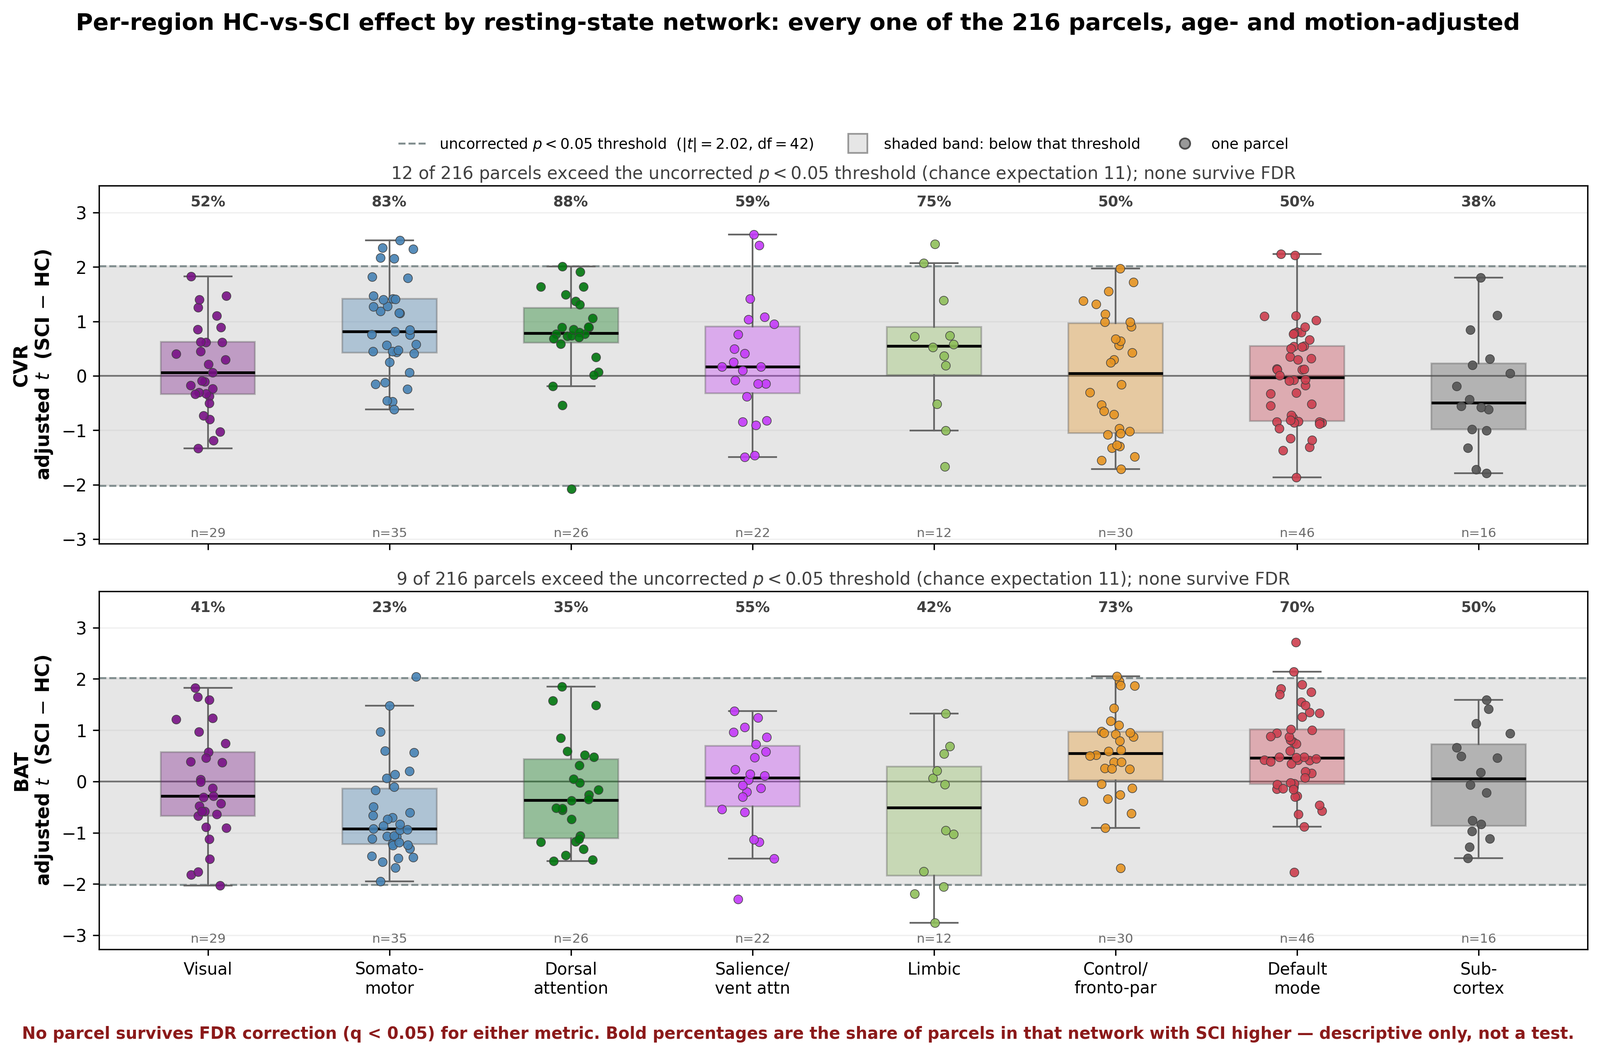
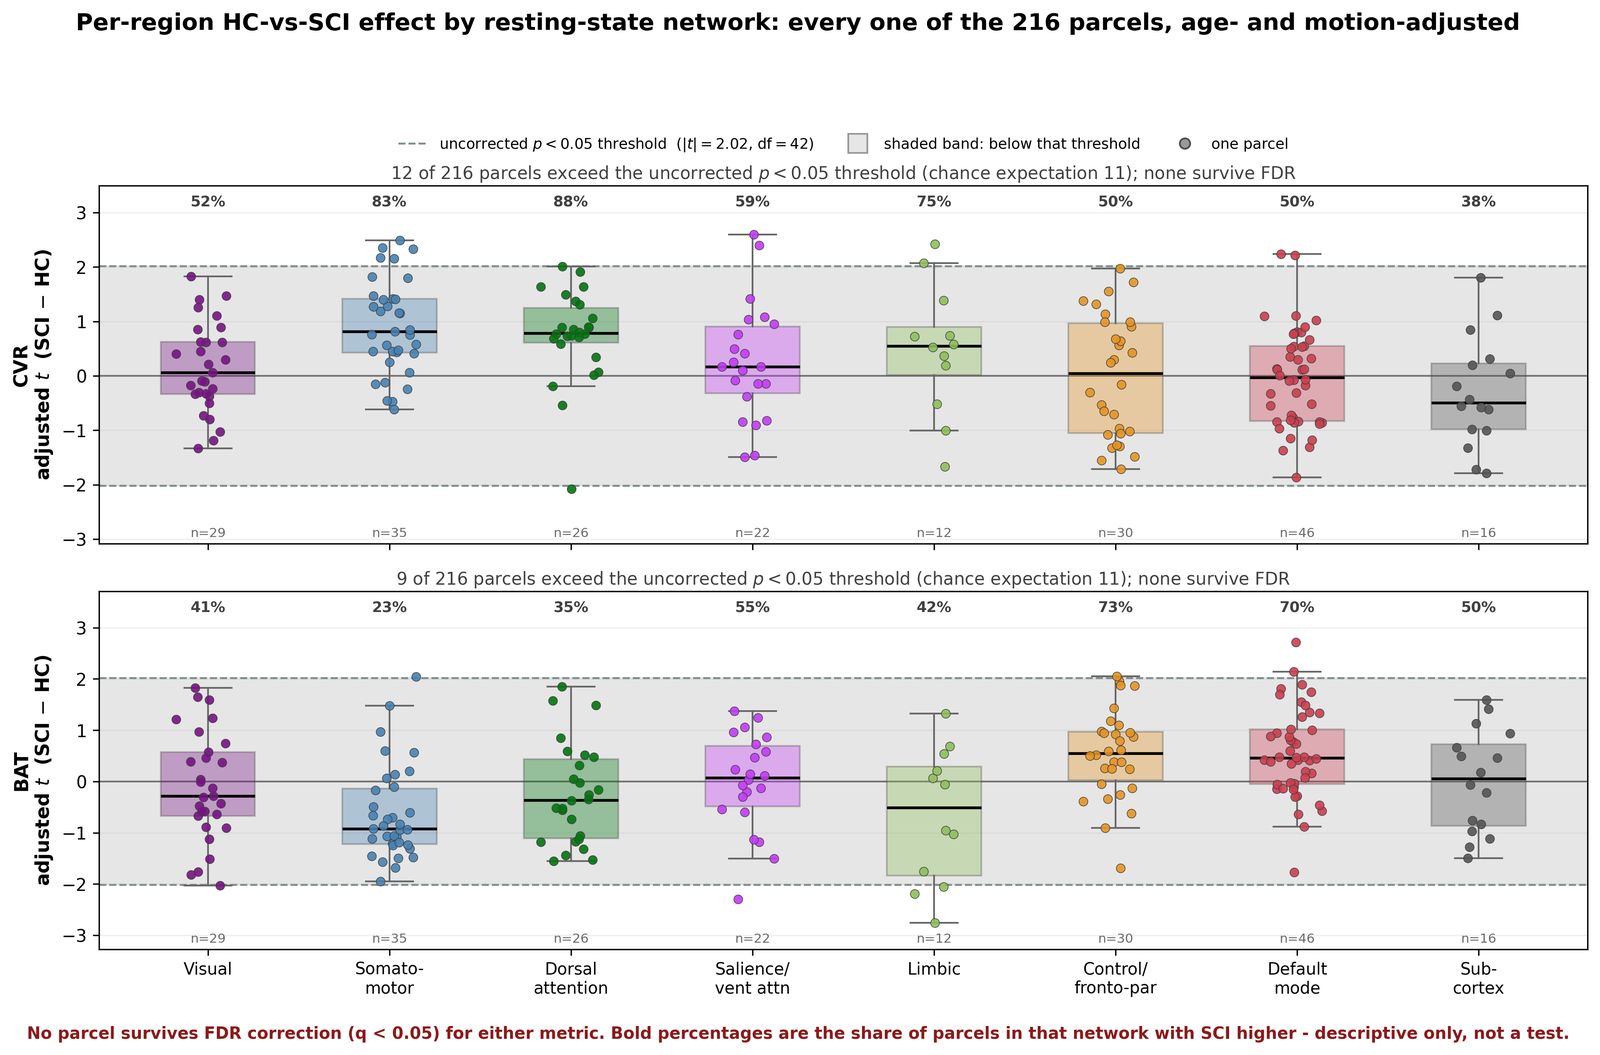
code update Sept26 HC/CVR

Changed region(s): [[0.0, 0.9706, 1.0, 1.0]]

diff --git a/src/analysis/visualize_results.py b/src/analysis/visualize_results.py
@@ -1,7 +1,7 @@
 #!/usr/bin/env python3
 """
 Visualize DLRS CVR and BAT Results
-Creates grid: subjects × 3 maps (Anatomy, CVR, BAT)
+Creates grid: subjects x 3 maps (Anatomy, CVR, BAT)
 """
 
 import os
@@ -91,7 +91,9 @@ def clean_mask_slice(mask_2d):
 
 def main():
     # Paths - resolve relative to script location
-    script_dir = os.path.dirname(os.path.abspath(__file__))
+    # This script lives in src/analysis, so the project root is two levels up.
+    script_dir = os.path.dirname(os.path.dirname(
+        os.path.dirname(os.path.abspath(__file__))))
     data_dir = os.path.join(script_dir, 'data')
     output_dir = os.path.join(data_dir, 'output')
 
@@ -219,7 +221,7 @@ def main():
             print(f"  CVR Map: No non-zero voxels (subject not processed?)", flush=True)
         else:
             print(f"  CVR Map:", flush=True)
-            print(f"    Mean ± SD: {cvr_brain.mean():.3f} ± {cvr_brain.std():.3f} a.u.", flush=True)
+            print(f"    Mean +/- SD: {cvr_brain.mean():.3f} +/- {cvr_brain.std():.3f} a.u.", flush=True)
             print(f"    Range: [{cvr_brain.min():.3f}, {cvr_brain.max():.3f}]", flush=True)
             print(f"    Median: {np.median(cvr_brain):.3f}", flush=True)
 
@@ -227,7 +229,7 @@ def main():
             print(f"  BAT Map: No non-zero voxels (subject not processed?)", flush=True)
         else:
             print(f"  BAT Map:", flush=True)
-            print(f"    Mean ± SD: {bat_brain.mean():.2f} ± {bat_brain.std():.2f} a.u.", flush=True)
+            print(f"    Mean +/- SD: {bat_brain.mean():.2f} +/- {bat_brain.std():.2f} a.u.", flush=True)
             print(f"    Range: [{bat_brain.min():.2f}, {bat_brain.max():.2f}]", flush=True)
             print(f"    Median: {np.median(bat_brain):.2f}", flush=True)
 

diff --git a/src/analysis/model_result_group.py b/src/analysis/model_result_group.py
@@ -278,7 +278,9 @@ def bland_altman_plot(ax, dlrs_vals, gt_vals, title='', color='#4DBEEE',
 # Main
 # ---------------------------------------------------------------------------
 def main():
-    script_dir = os.path.dirname(os.path.abspath(__file__))
+    # This script lives in src/analysis, so the project root is two levels up.
+    script_dir = os.path.dirname(os.path.dirname(
+        os.path.dirname(os.path.abspath(__file__))))
     data_dir = os.path.join(script_dir, 'data')
     output_dir = os.path.join(data_dir, 'output')
     figure_dir = os.path.join(script_dir, 'figure')

diff --git a/src/analysis/visualize_group_comparison.py b/src/analysis/visualize_group_comparison.py
@@ -181,7 +181,9 @@ def compute_subject_stats(cvr_data, bat_data, brain_vox):
 
 
 def main():
-    script_dir = os.path.dirname(os.path.abspath(__file__))
+    # This script lives in src/analysis, so the project root is two levels up.
+    script_dir = os.path.dirname(os.path.dirname(
+        os.path.dirname(os.path.abspath(__file__))))
     data_dir = os.path.join(script_dir, 'data')
     output_dir = os.path.join(data_dir, 'output')
     figure_dir = os.path.join(script_dir, 'figure')

diff --git a/src/analysis/group_ancova.py b/src/analysis/group_ancova.py
@@ -32,7 +32,8 @@ matplotlib.use("Agg")
 import matplotlib.pyplot as plt
 
 HERE = os.path.dirname(os.path.abspath(__file__))
-PROJ = os.path.dirname(HERE)
+# This script lives in src/analysis, so the project root is two levels up.
+PROJ = os.path.dirname(os.path.dirname(HERE))
 sys.path.insert(0, PROJ)
 import analyze_network_atlases as ana          # atlas builders + constants
 import model_result_group as mrg               # MCA label sets

diff --git a/src/analysis/analyze_network_atlases.py b/src/analysis/analyze_network_atlases.py
@@ -39,7 +39,8 @@ matplotlib.use('Agg')
 import matplotlib.pyplot as plt
 from scipy import stats as sp_stats
 
-ROOT = os.path.dirname(os.path.abspath(__file__))
+# This script lives in src/analysis, so the project root is two levels up.
+ROOT = os.path.dirname(os.path.dirname(os.path.dirname(os.path.abspath(__file__))))
 DATA = os.path.join(ROOT, 'data')
 OUT = os.path.join(DATA, 'output')
 FIG = os.path.join(ROOT, 'figure')

diff --git a/src/analysis/region_ancova_216.py b/src/analysis/region_ancova_216.py
@@ -50,7 +50,8 @@ import matplotlib.pyplot as plt
 from matplotlib.colors import TwoSlopeNorm
 
 HERE = os.path.dirname(os.path.abspath(__file__))
-PROJ = os.path.dirname(HERE)
+# This script lives in src/analysis, so the project root is two levels up.
+PROJ = os.path.dirname(os.path.dirname(HERE))
 sys.path.insert(0, PROJ)
 
 import analyze_network_atlases as ana      # atlas paths, grid, resampling

diff --git a/src/analysis/region216_network_figure.py b/src/analysis/region216_network_figure.py
@@ -33,7 +33,8 @@ from matplotlib.lines import Line2D
 from scipy import stats as sp_stats
 
 HERE = os.path.dirname(os.path.abspath(__file__))
-PROJ = os.path.dirname(HERE)
+# This script lives in src/analysis, so the project root is two levels up.
+PROJ = os.path.dirname(os.path.dirname(HERE))
 FIG = os.path.join(PROJ, "figure")
 
 ORDER = ["Visual", "Somatomotor", "DorsAttn", "VentAttn/Sal",

diff --git a/src/analysis/slice_vs_volume_mean.py b/src/analysis/slice_vs_volume_mean.py
@@ -46,7 +46,8 @@ matplotlib.use("Agg")
 import matplotlib.pyplot as plt
 
 HERE = os.path.dirname(os.path.abspath(__file__))
-PROJ = os.path.dirname(HERE)
+# This script lives in src/analysis, so the project root is two levels up.
+PROJ = os.path.dirname(os.path.dirname(HERE))
 sys.path.insert(0, PROJ)
 
 import visualize_group_comparison as V     # display constants + helpers

diff --git a/src/analysis/region216_surface_figure.py b/src/analysis/region216_surface_figure.py
@@ -39,7 +39,8 @@ from matplotlib.colors import TwoSlopeNorm
 from matplotlib.cm import ScalarMappable
 
 HERE = os.path.dirname(os.path.abspath(__file__))
-PROJ = os.path.dirname(HERE)
+# This script lives in src/analysis, so the project root is two levels up.
+PROJ = os.path.dirname(os.path.dirname(HERE))
 sys.path.insert(0, PROJ)
 
 FIG = os.path.join(PROJ, "figure")

diff --git a/src/analysis/mca_finding_figure.py b/src/analysis/mca_finding_figure.py
@@ -34,7 +34,8 @@ import matplotlib.pyplot as plt
 from scipy import stats
 
 HERE = os.path.dirname(os.path.abspath(__file__))
-PROJ = os.path.dirname(HERE)
+# This script lives in src/analysis, so the project root is two levels up.
+PROJ = os.path.dirname(os.path.dirname(HERE))
 FIG = os.path.join(PROJ, "figure")
 
 HC_COLOR, SCI_COLOR = "#4DBEEE", "#FF6B6B"

diff --git a/README.md b/README.md
@@ -59,11 +59,13 @@ Group processing expects `data/HC_subj/` and `data/SCI_subj/`:
 ```bash
 matlab -nodisplay -r "rs_running_groups; exit"
 python src/DLRS_CVR_BAT_inference.py
+python src/analysis/visualize_results.py
 ```
 
 ## Analysis
 
-Scripts in `src/analysis/` read the DLRS maps and write to `figure/`.
+Scripts in `src/analysis/` read the DLRS maps and write to `figure/`. Run them
+from the project root, for example `python src/analysis/group_ancova.py`.
 
 | Script | Output |
 |---|---|
@@ -76,6 +78,7 @@ Scripts in `src/analysis/` read the DLRS maps and write to `figure/`.
 | `region216_network_figure.py` | 216 parcels grouped by resting-state network |
 | `region216_surface_figure.py` | per-region effect on the cortical surface (needs nilearn) |
 | `slice_vs_volume_mean.py` | mid-axial slice versus through-brain mean |
+| `visualize_results.py` | per-subject CVR and BAT maps for a quick check |
 
 ## Notes
 
